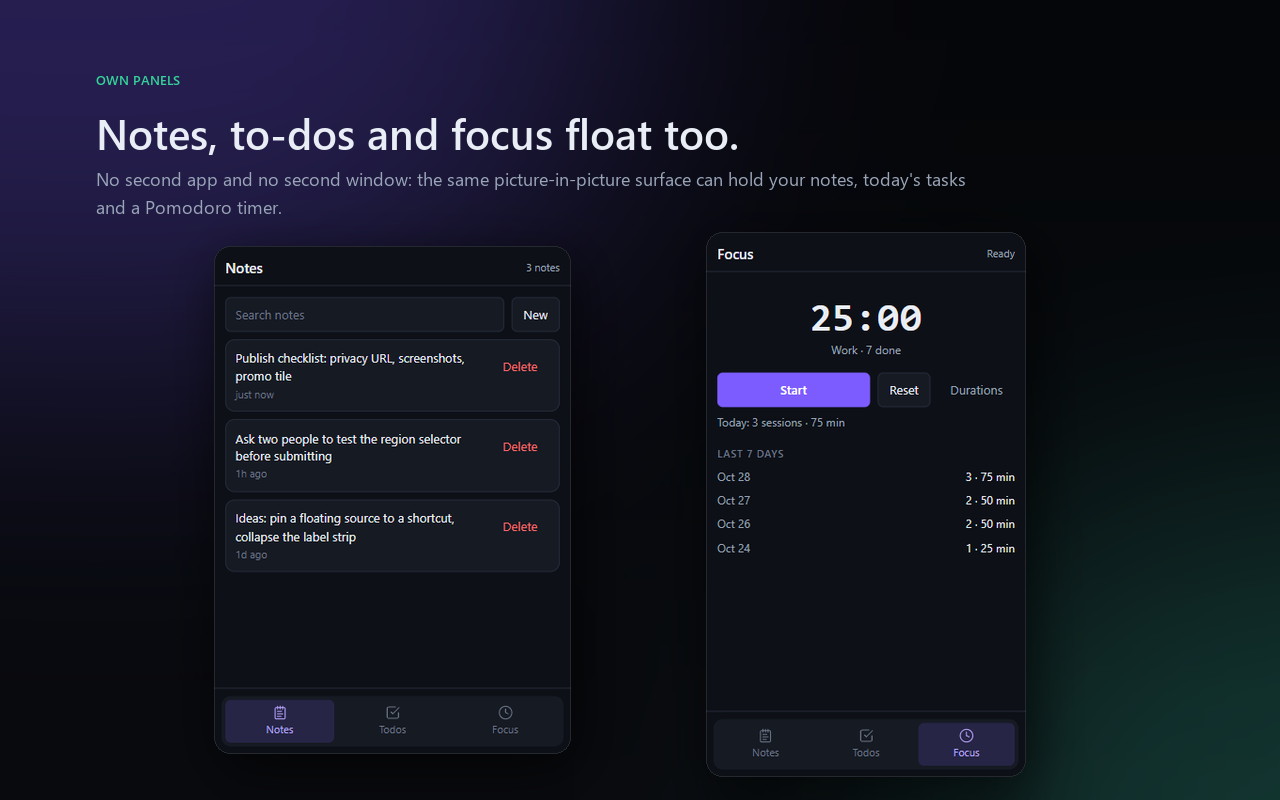
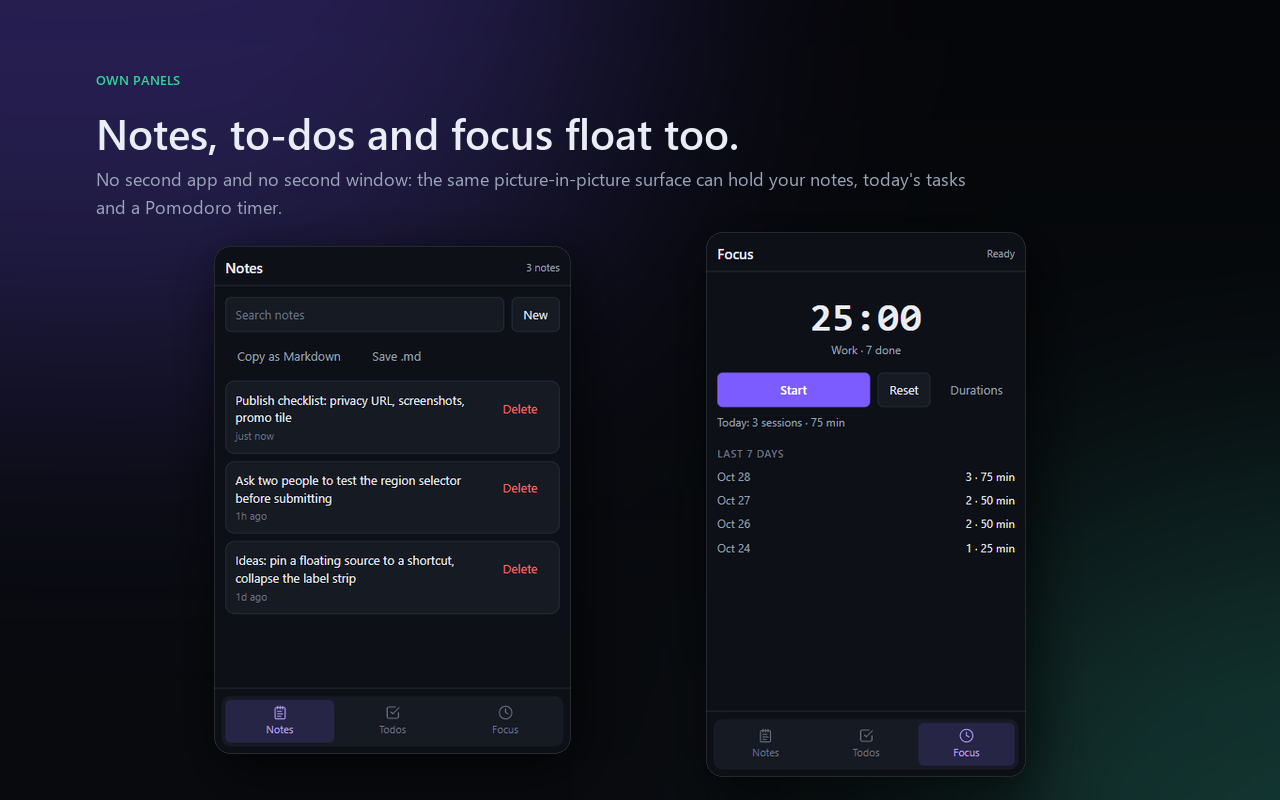
Export todos as Markdown and refresh the store screenshots
The clipboard and download plumbing the notes panel had now lives on
Panel.copyText/saveText, so both panels share it; todos export keeps the
[x] state, due dates and the panel's ordering. Store shots were recaptured
so the Notes frame shows the new export row.

Changed region(s): [[0.1875, 0.4375, 0.4375, 0.75], [0.375, 0.6562, 0.4375, 0.7188], [0.375, 0.5, 0.4375, 0.5312]]

diff --git a/panels/todos.js b/panels/todos.js
@@ -181,6 +181,7 @@
     const active = todos.filter((todo) => !todo.done).sort(byDueThenCreated);
     const done = todos.filter((todo) => todo.done).sort((a, b) => b.createdAt - a.createdAt);
     $("todos-meta").textContent = active.length === 1 ? "1 active" : `${active.length} active`;
+    $("todos-export").hidden = todos.length === 0;
     fill($("todos-active"), active, "No active todos.");
     fill($("todos-done"), done, "Nothing completed yet.");
     const field = editingId !== null ? $("todo-edit-text") : null;
@@ -233,6 +234,36 @@
     render();
   }
 
+  /* --- export -------------------------------------------------------- */
+
+  /** One Markdown task line: the checkbox carries the done state. */
+  const taskLine = (todo) =>
+    `- ${todo.done ? "[x]" : "[ ]"} ${todo.text.trim()}${
+      todo.due ? ` — due ${todo.due}` : ""
+    }`;
+
+  /** Both lists as Markdown, in the order the panel shows them. */
+  function toMarkdown() {
+    const active = todos.filter((todo) => !todo.done).sort(byDueThenCreated);
+    const done = todos
+      .filter((todo) => todo.done)
+      .sort((a, b) => b.createdAt - a.createdAt);
+    const lines = ["# PiPDesk todos", ""];
+    if (active.length) lines.push("## Active", "", ...active.map(taskLine), "");
+    if (done.length) lines.push("## Done", "", ...done.map(taskLine), "");
+    return `${lines.join("\n").trimEnd()}\n`;
+  }
+
+  const copyMarkdown = () =>
+    Panel.copyText(toMarkdown(), "Todos copied as Markdown");
+
+  const saveMarkdown = () =>
+    Panel.saveText(
+      `pipdesk-todos-${Panel.localDateKey()}.md`,
+      toMarkdown(),
+      "Todos saved as Markdown",
+    );
+
   function applyExternal(value) {
     todos = normalise(value);
     if (editingId === null) render();
@@ -242,6 +273,8 @@
     todos = normalise(await Store.read(KEY, []));
     unsubscribe = Store.subscribe(KEY, applyExternal);
     $("todo-add").addEventListener("click", addTodo);
+    $("todos-copy").addEventListener("click", copyMarkdown);
+    $("todos-save").addEventListener("click", saveMarkdown);
     $("todo-input").addEventListener("keydown", (event) => {
       if (event.key === "Enter") addTodo();
     });

diff --git a/shared/panel.js b/shared/panel.js
@@ -87,6 +87,32 @@ const Panel = (() => {
     setTimeout(() => node.remove(), 1800);
   }
 
+  /** Put text on the clipboard, reporting the outcome through a toast. */
+  async function copyText(text, okMessage = "Copied") {
+    try {
+      await navigator.clipboard.writeText(text);
+      toast(okMessage);
+    } catch {
+      toast("Clipboard is not available here");
+    }
+  }
+
+  /** Offer text as a download; the anchor never joins the layout. */
+  function saveText(filename, text, okMessage = "Saved") {
+    const blob = new Blob([text], { type: "text/markdown" });
+    const url = URL.createObjectURL(blob);
+    const link = document.createElement("a");
+    link.href = url;
+    link.download = filename;
+    link.hidden = true;
+    document.body.append(link);
+    link.click();
+    link.remove();
+    // The download starts from the blob URL; keep it alive until it has.
+    setTimeout(() => URL.revokeObjectURL(url), 1000);
+    toast(okMessage);
+  }
+
   /** Render the bottom navigation and wire page switching. */
   function mountNav(activeId, containerId = "panel-nav") {
     const container = document.getElementById(containerId);
@@ -127,6 +153,8 @@ const Panel = (() => {
     timeAgo,
     svg,
     toast,
+    copyText,
+    saveText,
     mountNav,
   };
 })();

diff --git a/popup/popup.html b/popup/popup.html
@@ -125,7 +125,7 @@
       <ul class="help">
         <li><b>Capture</b> — pick <code>Tab</code> or <code>Video</code>, then press the big button. <code>Selected region</code> takes a drag or a hover-and-click on one element; the arrow keys nudge the box, <code>Ctrl</code> plus the arrows resizes it, <code>Esc</code> cancels.</li>
         <li><code>Use last region</code> repeats the box you cut on this site before.</li>
-        <li>In Notes, <code>Copy as Markdown</code> puts the whole list on the clipboard and <code>Save .md</code> writes it to a file.</li>
+        <li>In Notes and Todos, <code>Copy as Markdown</code> puts the whole list on the clipboard and <code>Save .md</code> writes it to a file.</li>
         <li>Every floating source gets a row: <code>Show alone</code> fills the window with that one, <code>Back to grid</code> returns to the shared layout, <code>Stop</code> removes one, <code>Stop all</code> closes everything.</li>
         <li>With two or more sources the window draws a label strip under each tile so you can tell them apart.</li>
         <li>On a video page the control sits in the player bar; left-click floats the video, right-click opens the actions. The same actions live in Chrome's right-click menu.</li>

diff --git a/panels/notes.js b/panels/notes.js
@@ -73,31 +73,15 @@
     return `${lines.join("\n")}\n`;
   }
 
-  async function copyMarkdown() {
-    try {
-      await navigator.clipboard.writeText(toMarkdown());
-      Panel.toast("Notes copied as Markdown");
-    } catch {
-      Panel.toast("Clipboard is not available here");
-    }
-  }
+  const copyMarkdown = () =>
+    Panel.copyText(toMarkdown(), "Notes copied as Markdown");
 
-  function saveMarkdown() {
-    const url = URL.createObjectURL(
-      new Blob([toMarkdown()], { type: "text/markdown" }),
+  const saveMarkdown = () =>
+    Panel.saveText(
+      `pipdesk-notes-${Panel.localDateKey()}.md`,
+      toMarkdown(),
+      "Notes saved as Markdown",
     );
-    const link = el("a", {
-      href: url,
-      download: `pipdesk-notes-${Panel.localDateKey()}.md`,
-      hidden: "hidden",
-    });
-    document.body.append(link);
-    link.click();
-    link.remove();
-    // The download starts from the blob URL; keep it alive until it has.
-    setTimeout(() => URL.revokeObjectURL(url), 1000);
-    Panel.toast("Notes saved as Markdown");
-  }
 
   function renderActions() {
     const host = $("notes-actions");

diff --git a/panels/todos.html b/panels/todos.html
@@ -36,6 +36,10 @@
           <input id="todo-input" class="field" type="text" placeholder="Add a todo" aria-label="New todo" autocomplete="off" />
           <button id="todo-add" class="btn" type="button">Add</button>
         </div>
+        <div class="row" id="todos-export" hidden>
+          <button id="todos-copy" class="btn btn--ghost" type="button">Copy as Markdown</button>
+          <button id="todos-save" class="btn btn--ghost" type="button">Save .md</button>
+        </div>
         <div class="section" id="todos-active-title">Active</div>
         <div class="stack" id="todos-active"></div>
         <div class="section" id="todos-done-title">Done</div>

diff --git a/docs/E2E-TEST.md b/docs/E2E-TEST.md
@@ -373,6 +373,17 @@ Tổng hợp vào bảng ở mục 14.
   `No active todos.` và `Nothing completed yet.`
 - Neo: `panels/todos.js` — `addTodo()`, `toggleTodo()`, `removeTodo()`, `render()`.
 
+### TC-E4b — Todos: xuất Markdown kèm trạng thái đã xong
+- Thao tác: có một việc đang làm, một việc có hạn và một việc đã tick xong, bấm
+  `Copy as Markdown` rồi dán vào trình soạn thảo; sau đó bấm `Save .md`.
+- Kỳ vọng: toast `Todos copied as Markdown`, clipboard có `# PiPDesk todos`,
+  mục `## Active` với dòng `- [ ] …` (việc có hạn kèm `— due YYYY-MM-DD`) và
+  mục `## Done` với dòng `- [x] …`; việc đã xong xếp mới nhất lên đầu; `Save .md`
+  tải về `pipdesk-todos-YYYY-MM-DD.md`; khi chưa có việc nào thì hàng hai nút ẩn.
+- Neo: `panels/todos.js` — `toMarkdown()`, `taskLine()`, `copyMarkdown()`,
+  `saveMarkdown()`; `render()` bật/tắt `#todos-export`; `shared/panel.js` —
+  `copyText()`, `saveText()`.
+
 ### TC-E5 — Todos: sửa nội dung và hạn
 - Thao tác: bấm vào một việc để mở trình sửa, đổi nội dung, đặt hạn là **hôm
   nay**, `Save`; mở lại và đặt hạn là **hôm qua**, `Save`; thử xoá trắng nội

diff --git a/README.md b/README.md
@@ -17,7 +17,7 @@ profile when you turn on sync).
 | Selected region PiP | Drag a box over any part of a page; only that rectangle floats. |
 | Page video PiP | Hands a video element on the page to the browser's native picture-in-picture. |
 | Notes | Capture-and-go notes in their own floating panel. |
-| Notes export | Copy the whole list as Markdown, or save it as a dated `.md` file. |
+| Markdown export | Copy notes or todos as Markdown, or save them as a dated `.md` file; todo lines keep their `[x]` state and due date. |
 | Todos | Active/done split, due dates with overdue highlighting, inline editing. |
 | Focus timer | Pomodoro with work / short / long breaks, daily history and a system notification when a session ends. |
 | Workspace window | Capture and a panel side by side in one window; separate windows when the live stream refuses to attach. |

diff --git a/docs/CHROME-WEB-STORE.md b/docs/CHROME-WEB-STORE.md
@@ -84,8 +84,8 @@ WHAT YOU CAN FLOAT
 • A video. On sites you enable, a small control floats the page's own video with
   the browser's native picture-in-picture.
 • Your own tools. Notes, a to-do list and a Pomodoro focus timer live in the
-  same floating window, and the notes copy out as Markdown when you need them
-  elsewhere.
+  same floating window, and notes and to-dos copy out as Markdown when you need
+  them elsewhere.
 
 UP TO FOUR SOURCES, ONE WINDOW
 Chrome only allows one document picture-in-picture window per tab, so PiPDesk
